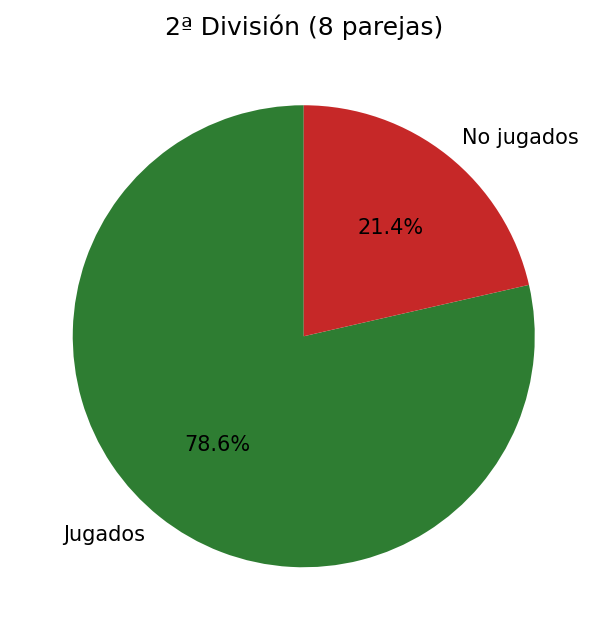
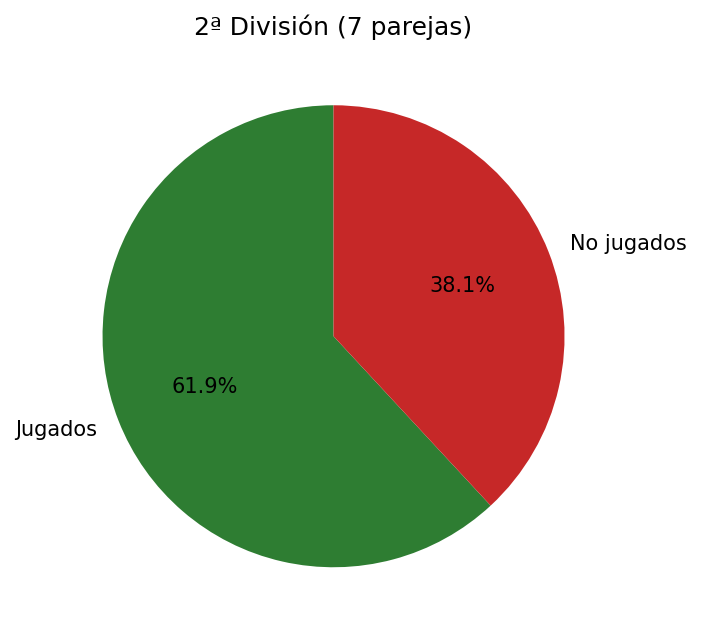
Refactor code structure for improved readability and maintainability

diff --git a/sources/estadoLiga.py b/sources/estadoLiga.py
@@ -20,9 +20,10 @@ def division_sort_key(name):
 base_dir = Path(__file__).resolve().parent
 data_file = base_dir / "clasificacion.json"
 api_base = "https://club-padel-api-12f28391bbbd.herokuapp.com"
-liga_id = os.getenv("LIGA_ID", "4952")
+liga_id = os.getenv("LIGA_ID", "6553")
 charts_dir = base_dir / "graficos_liga"
 division_charts_dir = charts_dir / "divisiones"
+excluded_divisions = {"Retirados"}
 
 data = None
 try:
@@ -43,6 +44,12 @@ except (urllib.error.URLError, urllib.error.HTTPError, json.JSONDecodeError) as 
 if data is None:
     with data_file.open("r", encoding="utf-8") as f:
         data = json.load(f)
+
+data = [
+    x
+    for x in data
+    if (x.get("division") or {}).get("nombre", "Sin división") not in excluded_divisions
+]
 
 total_jugados = sum(x.get("partidosJugados", 0) for x in data)
 total_no_jugados = sum(x.get("noJugados", 0) for x in data)
